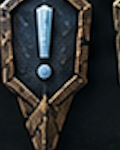
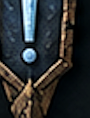
style: sharpen wildbound map marker visuals

diff --git a/src/components/fault-lines/fault-lines.module.css b/src/components/fault-lines/fault-lines.module.css
@@ -100,8 +100,8 @@
 .discoveryMapImage{position:absolute;inset:0;background-image:url('/A_FebImg-Tethys/wideearth-map.jpg');background-size:cover;background-position:center}
 .discoveryFog{position:absolute;inset:0;width:100%;height:100%}
 .discoveryPin{position:absolute;min-width:20px;height:20px;padding:0 5px;border-radius:999px;background:#f2d5b5;border:1px solid #352113;transform:translate(-50%,-50%);display:flex;align-items:center;justify-content:center;font-size:12px;box-shadow:0 0 0 4px #f1c89e2a}
-.discoveryPinWildbound{background:#12171d;color:#f2cf9d;border-color:#7a5a39;box-shadow:0 0 0 4px #c4873d30}
-.discoveryPinImage{width:24px;height:30px;object-fit:cover;border-radius:4px;display:block;filter:drop-shadow(0 2px 2px rgba(0,0,0,.45))}
+.discoveryPinWildbound{min-width:0;width:auto;height:auto;padding:0;border:none;background:transparent;box-shadow:none}
+.discoveryPinImage{width:22px;height:29px;object-fit:cover;display:block;image-rendering:auto;filter:drop-shadow(0 2px 2px rgba(0,0,0,.55))}
 .discoveryPreview{margin-top:16px}
 .discoveryPreview img{width:100%;border:1px solid #81664b47;display:block}
 .discoveryUnlocks{margin-top:18px;border:1px solid #84684736;padding:14px 16px;background:#10151b}
